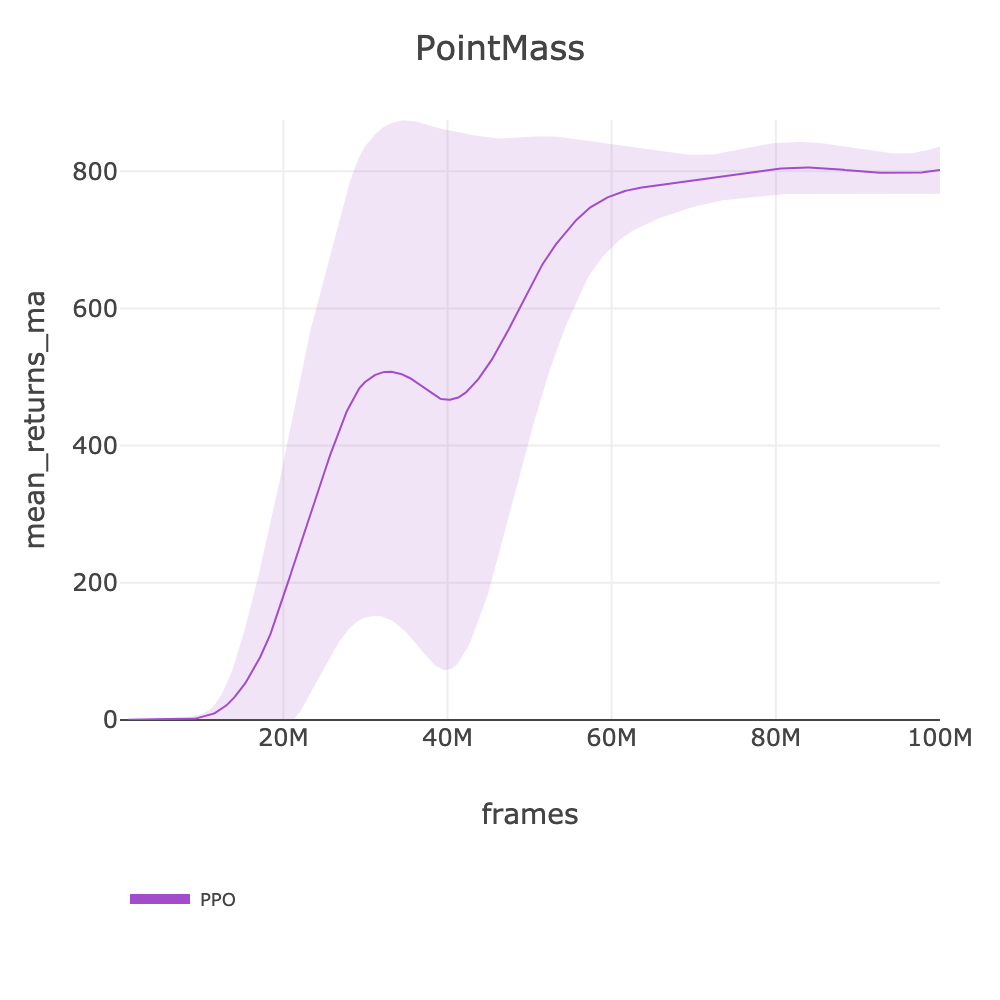
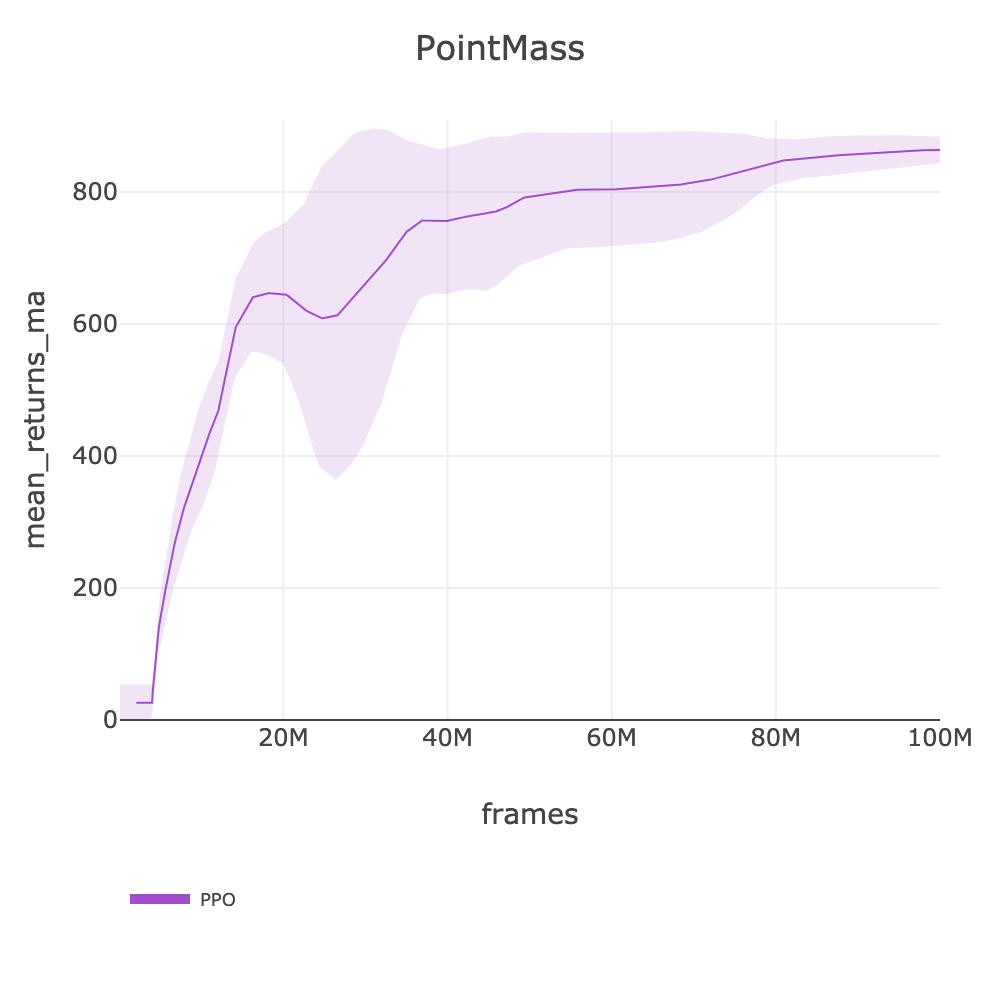
feat: intake PPO PendulumSwingup (276, ⚠) + PointMass (863, ⚠)
PendulumSwingup: 276 MA, high variance (one seed 700+), still climbing
PointMass: 863 MA, converges by 30M, near 900 target

diff --git a/docs/BENCHMARKS.md b/docs/BENCHMARKS.md
@@ -934,10 +934,10 @@ source .env && uv run slm-lab run-remote --gpu \
 | playground/HumanoidWalk | PPO | 🔄 | - | ppo_playground | - | 500 | - | - | - |
 | | CrossQ | 🔄 | - | crossq_playground_vhard | - | | - | - | - |
 | | SAC | 🔄 | - | sac_playground | - | | - | - | - |
-| playground/PendulumSwingup | PPO | 🔄 | - | ppo_playground | - | ~70 | - | - | - |
+| playground/PendulumSwingup | PPO | ⚠ | 276.46 | ppo_playground | [ppo_playground_pendulumswingup_2026_03_12_111925](https://huggingface.co/datasets/SLM-Lab/benchmark-dev/tree/main/data/ppo_playground_pendulumswingup_2026_03_12_111925) | 395 | 11170 | 100M | 2h 29m |
 | | CrossQ | 🔄 | - | crossq_playground | - | | - | - | - |
 | | SAC | 🔄 | - | sac_playground | - | | - | - | - |
-| playground/PointMass | PPO | 🔄 | - | ppo_playground | - | 900 | - | - | - |
+| playground/PointMass | PPO | ⚠ | 863.53 | ppo_playground | [ppo_playground_pointmass_2026_03_12_111935](https://huggingface.co/datasets/SLM-Lab/benchmark-dev/tree/main/data/ppo_playground_pointmass_2026_03_12_111935) | 900 | 11060 | 100M | 2h 31m |
 | | SAC | 🔄 | - | sac_playground | - | | - | - | - |
 | | CrossQ | 🔄 | - | crossq_playground | - | | - | - | - |
 | playground/ReacherEasy | PPO | 🔄 | - | ppo_playground | - | 950 | - | - | - |
